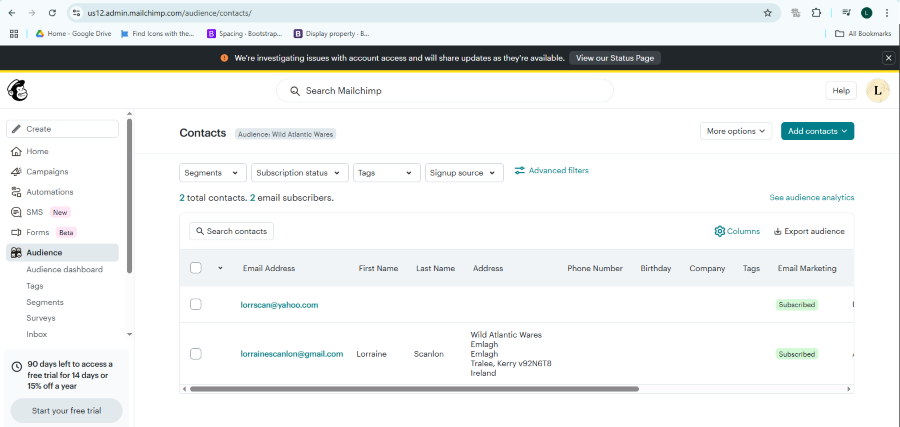
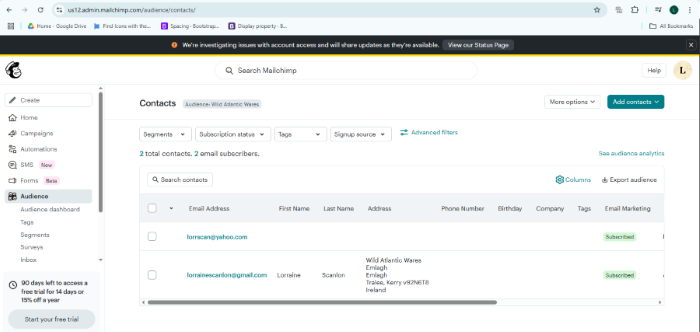
Updates to README, added mailchimp image and DBModel image.

diff --git a/README.md b/README.md
@@ -34,10 +34,6 @@
     - [OrderLineItem Model](#orderlineitem-model)
     - [Contact Model](#contact-model)
     - [UserProfile Model](#userprofile-model)
-  - [Messaging & Error Handling]('messaging-errorhandling)
-    - [Toasts](#toasts)
-    - [Try Exceptions](#try-exceptions)
-    - [Error 500](#error500)
   - [Technologies Used](#technologies-used)
     - [Development Environment and Hosting](#development-environment-and-hosting)
     - [Libraries](#libraries)
@@ -298,7 +294,7 @@
 The database model evolved from the needs of the user stories.  
 The diagram was created using [Lucidchart](https://lucidchart.com)
 
-![DBModel](/static/docs/images/)
+![DBModel](/static/docs/images/DBModel.png)
 
 ### Category Model
  The category model records product categories
@@ -380,8 +376,8 @@ The diagram was created using [Lucidchart](https://lucidchart.com)
  | -------------- | -------------- |
  | product | ForeignKey |
  | user | ForeignKey |
- | product_review | TestField |
- | experience_review | TestField |
+ | product_review | TextField |
+ | experience_review | TextField |
  | rating | IntegerField |
  | approved | BooleanField |
  | created_on | DateField |
@@ -481,9 +477,12 @@ The CRUD principle was at the center of the design process for this project.
 
 
 ### MailChimp
- - [MailChimp](https://mailchimp.com)  - Email marketing platform
- Screenshot of subscribe section and emails showing on mailchimp
- Setup a newsletter subscription service using Mailchimp
+ - [MailChimp](https://mailchimp.com)  - Email marketing platform for newsletter subscribers
+ 
+ Successfully setup mailchimp 
+
+ ![mailchimp](/static/docs/images/mailchimp.PNG)
+
 
 ## SEO
  

diff --git a/TESTING.md b/TESTING.md
@@ -228,20 +228,10 @@
  **Admin Account**
  | **Test** | **Expected Outcome** | **Result** |
  | -------- | -------------------- | ---------- |
- | Login with a valid username and password | My Account Menu list items to change |  |
- | View Products detail page| Links to edit and delete product should be displayed  |  |
- | Add Product |  |  |
- | Edit Product |  |  |
- | Delete Product |  |  |
-
- **Admin Console**
- | **Test** | **Expected Outcome** | **Result** |
- | -------- | -------------------- | ---------- |
- | Login with a valid username and password | |  |
- | View Model Data | |  |
- | Add Product |  |  |
- | Edit Product |  |  |
- | Delete Product |  |  |
+ | Login with a valid username and password | My Account Menu list items to change to include Product Management | Pass  |
+ | Add Product | Logged in Admin User can add Product from the Products Management Page | Pass  |
+ | Edit Product | Logged in Admin User can edit a Product from edit link on the Products detail Page | Pass |
+ | Delete Product | Logged in Admin User can delete a Product from delete link on the Products detail Page | Pass |
 
 
 ### Social Links
